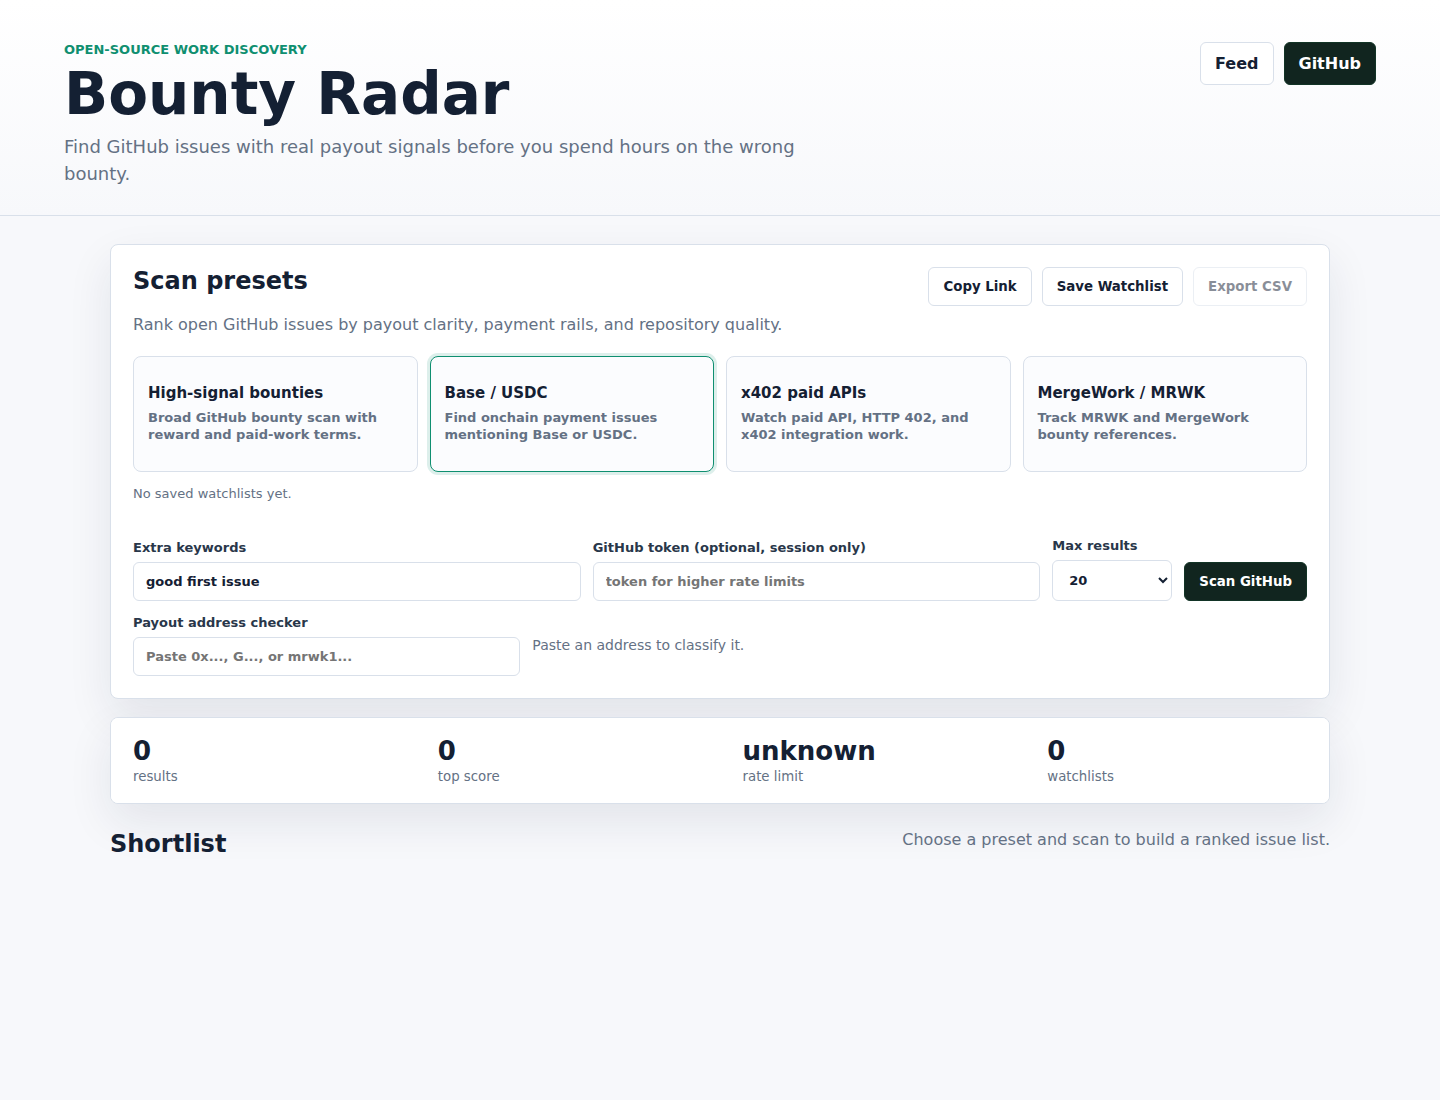
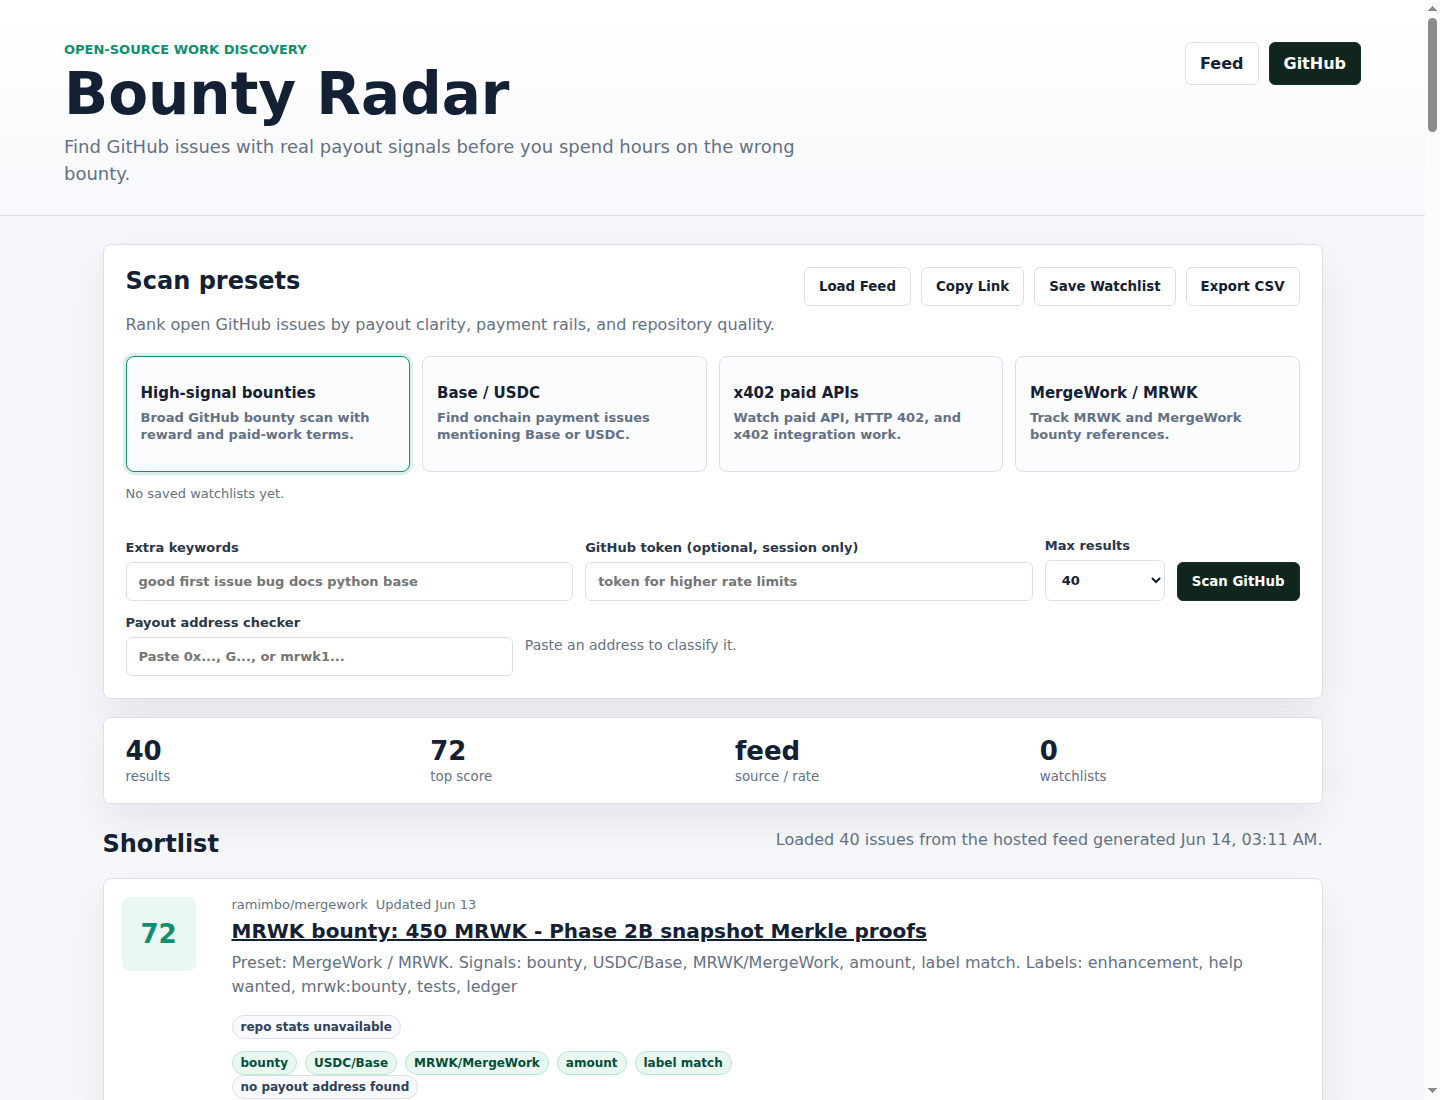
Improve live feed demo

diff --git a/app.js b/app.js
@@ -48,6 +48,7 @@ const usdcTerms = /\b(usdc|usd coin|stablecoin)\b/i;
 const chainTerms = /\b(base|base mainnet|base sepolia|eip155:8453|eip155:84532|ethereum|mainnet|sepolia)\b/i;
 
 const WATCHLIST_KEY = 'bounty-radar-watchlists';
+const FEED_URL = 'feed/latest.json';
 const REPO_STATS_LIMIT = 12;
 const repoCache = new Map();
 let apiRateRemaining = null;
@@ -62,6 +63,7 @@ const elements = {
   token: document.querySelector('#token'),
   limit: document.querySelector('#limit'),
   scanButton: document.querySelector('#scanButton'),
+  loadDailyFeed: document.querySelector('#loadDailyFeed'),
   copyShareLink: document.querySelector('#copyShareLink'),
   saveWatchlist: document.querySelector('#saveWatchlist'),
   exportCsv: document.querySelector('#exportCsv'),
@@ -246,6 +248,66 @@ async function scanGitHub(event) {
     elements.scanButton.disabled = false;
     elements.scanButton.textContent = 'Scan GitHub';
   }
+}
+
+async function loadDailyFeed() {
+  elements.loadDailyFeed.disabled = true;
+  elements.loadDailyFeed.textContent = 'Loading...';
+  elements.statusText.textContent = 'Loading the latest hosted bounty feed.';
+  elements.results.innerHTML = '<div class="empty">Loading the daily JSON feed...</div>';
+
+  try {
+    const response = await fetch(FEED_URL, { cache: 'no-cache' });
+    if (!response.ok) throw new Error(`${response.status} ${response.statusText}`);
+
+    const feed = await response.json();
+    currentResults = (feed.items ?? [])
+      .map(normalizeFeedItem)
+      .sort((a, b) => b.score - a.score || new Date(b.updatedAt) - new Date(a.updatedAt));
+    renderResults(currentResults);
+    elements.rateLimit.textContent = 'feed';
+    elements.statusText.textContent = `Loaded ${currentResults.length} issues from the hosted feed generated ${formatDateTime(feed.generated_at)}.`;
+  } catch (error) {
+    currentResults = [];
+    elements.results.innerHTML = `<div class="empty">Hosted feed unavailable: ${escapeHtml(error.message)}</div>`;
+    elements.resultCount.textContent = '0';
+    elements.topScore.textContent = '0';
+    elements.exportCsv.disabled = true;
+    elements.statusText.textContent = 'Feed load failed. Use Scan GitHub for a live search.';
+  } finally {
+    elements.loadDailyFeed.disabled = false;
+    elements.loadDailyFeed.textContent = 'Load Feed';
+  }
+}
+
+function normalizeFeedItem(item) {
+  const addresses = Array.isArray(item.addresses) ? item.addresses : [];
+  const signals = Array.isArray(item.signals) ? item.signals : [];
+  const labels = Array.isArray(item.labels) ? item.labels : [];
+  const addressText = addresses.map((address) => address.value).join(' ');
+  const payoutFindings = lintPayoutText(`${item.title ?? ''}\n${addressText}`, { allowNoAddress: true }).findings;
+
+  return {
+    title: item.title ?? 'Untitled issue',
+    url: item.url,
+    repo: item.repo ?? 'unknown/repo',
+    updatedAt: item.updated_at,
+    summary: feedSummary(item, signals, labels),
+    labels,
+    signals,
+    addresses,
+    payoutFindings,
+    repoStats: null,
+    score: Number(item.score ?? 0),
+  };
+}
+
+function feedSummary(item, signals, labels) {
+  const parts = [];
+  if (item.preset_name || item.preset) parts.push(`Preset: ${item.preset_name ?? item.preset}`);
+  if (signals.length > 0) parts.push(`Signals: ${signals.join(', ')}`);
+  if (labels.length > 0) parts.push(`Labels: ${labels.slice(0, 5).join(', ')}`);
+  return parts.join('. ') || 'Daily feed item from the hosted GitHub bounty radar.';
 }
 
 function scoreIssue(issue) {
@@ -575,6 +637,16 @@ function formatDate(value) {
   return new Intl.DateTimeFormat(undefined, { month: 'short', day: 'numeric' }).format(new Date(value));
 }
 
+function formatDateTime(value) {
+  if (!value) return 'recently';
+  return new Intl.DateTimeFormat(undefined, {
+    month: 'short',
+    day: 'numeric',
+    hour: '2-digit',
+    minute: '2-digit',
+  }).format(new Date(value));
+}
+
 function formatNumber(value) {
   return new Intl.NumberFormat(undefined, { notation: 'compact', maximumFractionDigits: 1 }).format(value);
 }
@@ -594,6 +666,7 @@ function escapeHtml(value) {
 }
 
 elements.form.addEventListener('submit', scanGitHub);
+elements.loadDailyFeed.addEventListener('click', loadDailyFeed);
 elements.copyShareLink.addEventListener('click', copyShareLink);
 elements.saveWatchlist.addEventListener('click', saveCurrentWatchlist);
 elements.exportCsv.addEventListener('click', exportCsv);
@@ -601,3 +674,4 @@ elements.addressInput.addEventListener('input', classifyAddress);
 applyUrlState();
 renderPresets();
 renderWatchlists();
+loadDailyFeed();

diff --git a/index.html b/index.html
@@ -33,6 +33,7 @@
             <p>Rank open GitHub issues by payout clarity, payment rails, and repository quality.</p>
           </div>
           <div class="panel-actions">
+            <button id="loadDailyFeed" class="secondary" type="button">Load Feed</button>
             <button id="copyShareLink" class="secondary" type="button">Copy Link</button>
             <button id="saveWatchlist" class="secondary" type="button">Save Watchlist</button>
             <button id="exportCsv" class="secondary" type="button" disabled>Export CSV</button>
@@ -87,7 +88,7 @@
         </div>
         <div>
           <span id="rateLimit">unknown</span>
-          <small>rate limit</small>
+          <small>source / rate</small>
         </div>
         <div>
           <span id="savedCount">0</span>

diff --git a/README.md b/README.md
@@ -2,7 +2,7 @@
 
 **Find GitHub issues with real payout signals before you spend hours on the wrong bounty.**
 
-Bounty Radar is a zero-backend dashboard for developers and agent builders who hunt paid open-source work. It searches GitHub issues, scores payout credibility signals, highlights Base/USDC/x402/MergeWork keywords, extracts payout addresses, and exports a shortlist you can review before opening a PR.
+Bounty Radar is a zero-backend dashboard for developers and agent builders who hunt paid open-source work. It opens with a hosted daily shortlist, can run fresh GitHub issue searches in the browser, scores payout credibility signals, highlights Base/USDC/x402/MergeWork keywords, extracts payout addresses, and exports a shortlist you can review before opening a PR.
 
 The browser checker now includes payout lint warnings for common irreversible-payment mistakes such as malformed EVM addresses, zero addresses, bad EIP-55 checksums, non-checksummed EVM addresses, and USDC text without explicit chain context. Use [Payout Address Lint](https://github.com/go165/payout-address-lint) when you want the same idea as a reusable CLI or GitHub Action in a bounty repository.
 
@@ -28,6 +28,7 @@ Bounty Radar makes that triage fast without asking for your GitHub token by defa
 ## Features
 
 - **Preset searches** for high-signal bounty issues, Base/USDC work, x402 paid APIs, and MergeWork/MRWK opportunities.
+- **Live hosted shortlist** loaded from the daily JSON feed so the demo has useful results immediately.
 - **Custom GitHub issue search** with optional minimum payout keyword filtering.
 - **Payout signal score** based on title/body labels, payment rail terms, reward amounts, address hints, and payout lint risk.
 - **Best-effort repository quality signals** for stars, forks, recent push activity, and archived status.
@@ -55,10 +56,10 @@ Then open http://localhost:8080.
 
 ## Usage
 
-1. Pick a preset such as `Base / USDC` or `x402 paid APIs`.
-2. Add optional keywords like `good first issue`, `bug`, `docs`, or a specific ecosystem.
-3. Click **Copy Link** to share the exact search, or **Scan GitHub** to run it.
-4. Sort by payout score and inspect the top results.
+1. Open the demo to see the latest hosted shortlist from `feed/latest.json`.
+2. Pick a preset such as `Base / USDC` or `x402 paid APIs` for a fresh browser-side scan.
+3. Add optional keywords like `good first issue`, `bug`, `docs`, or a specific ecosystem.
+4. Click **Copy Link** to share the exact search, or **Scan GitHub** to run it.
 5. Export CSV before deciding what to work on.
 
 Example share URL:
@@ -101,6 +102,7 @@ Repository quality metadata is fetched sequentially and capped to avoid burning 
 - Day 4: Add shareable preset URLs for launch posts and community review. Shipped.
 - Day 5: Add GitHub Actions daily digest mode. Shipped.
 - Day 6: Add hosted JSON/CSV feed for agents and dashboards. Shipped.
+- Day 6.5: Auto-load the hosted feed into the demo so visitors see real current opportunities immediately. Shipped.
 - Day 7: Ship API/webhook plan for paid alerts. Shipped as `examples/paid-alert-api`.
 
 ## Monetization Path
